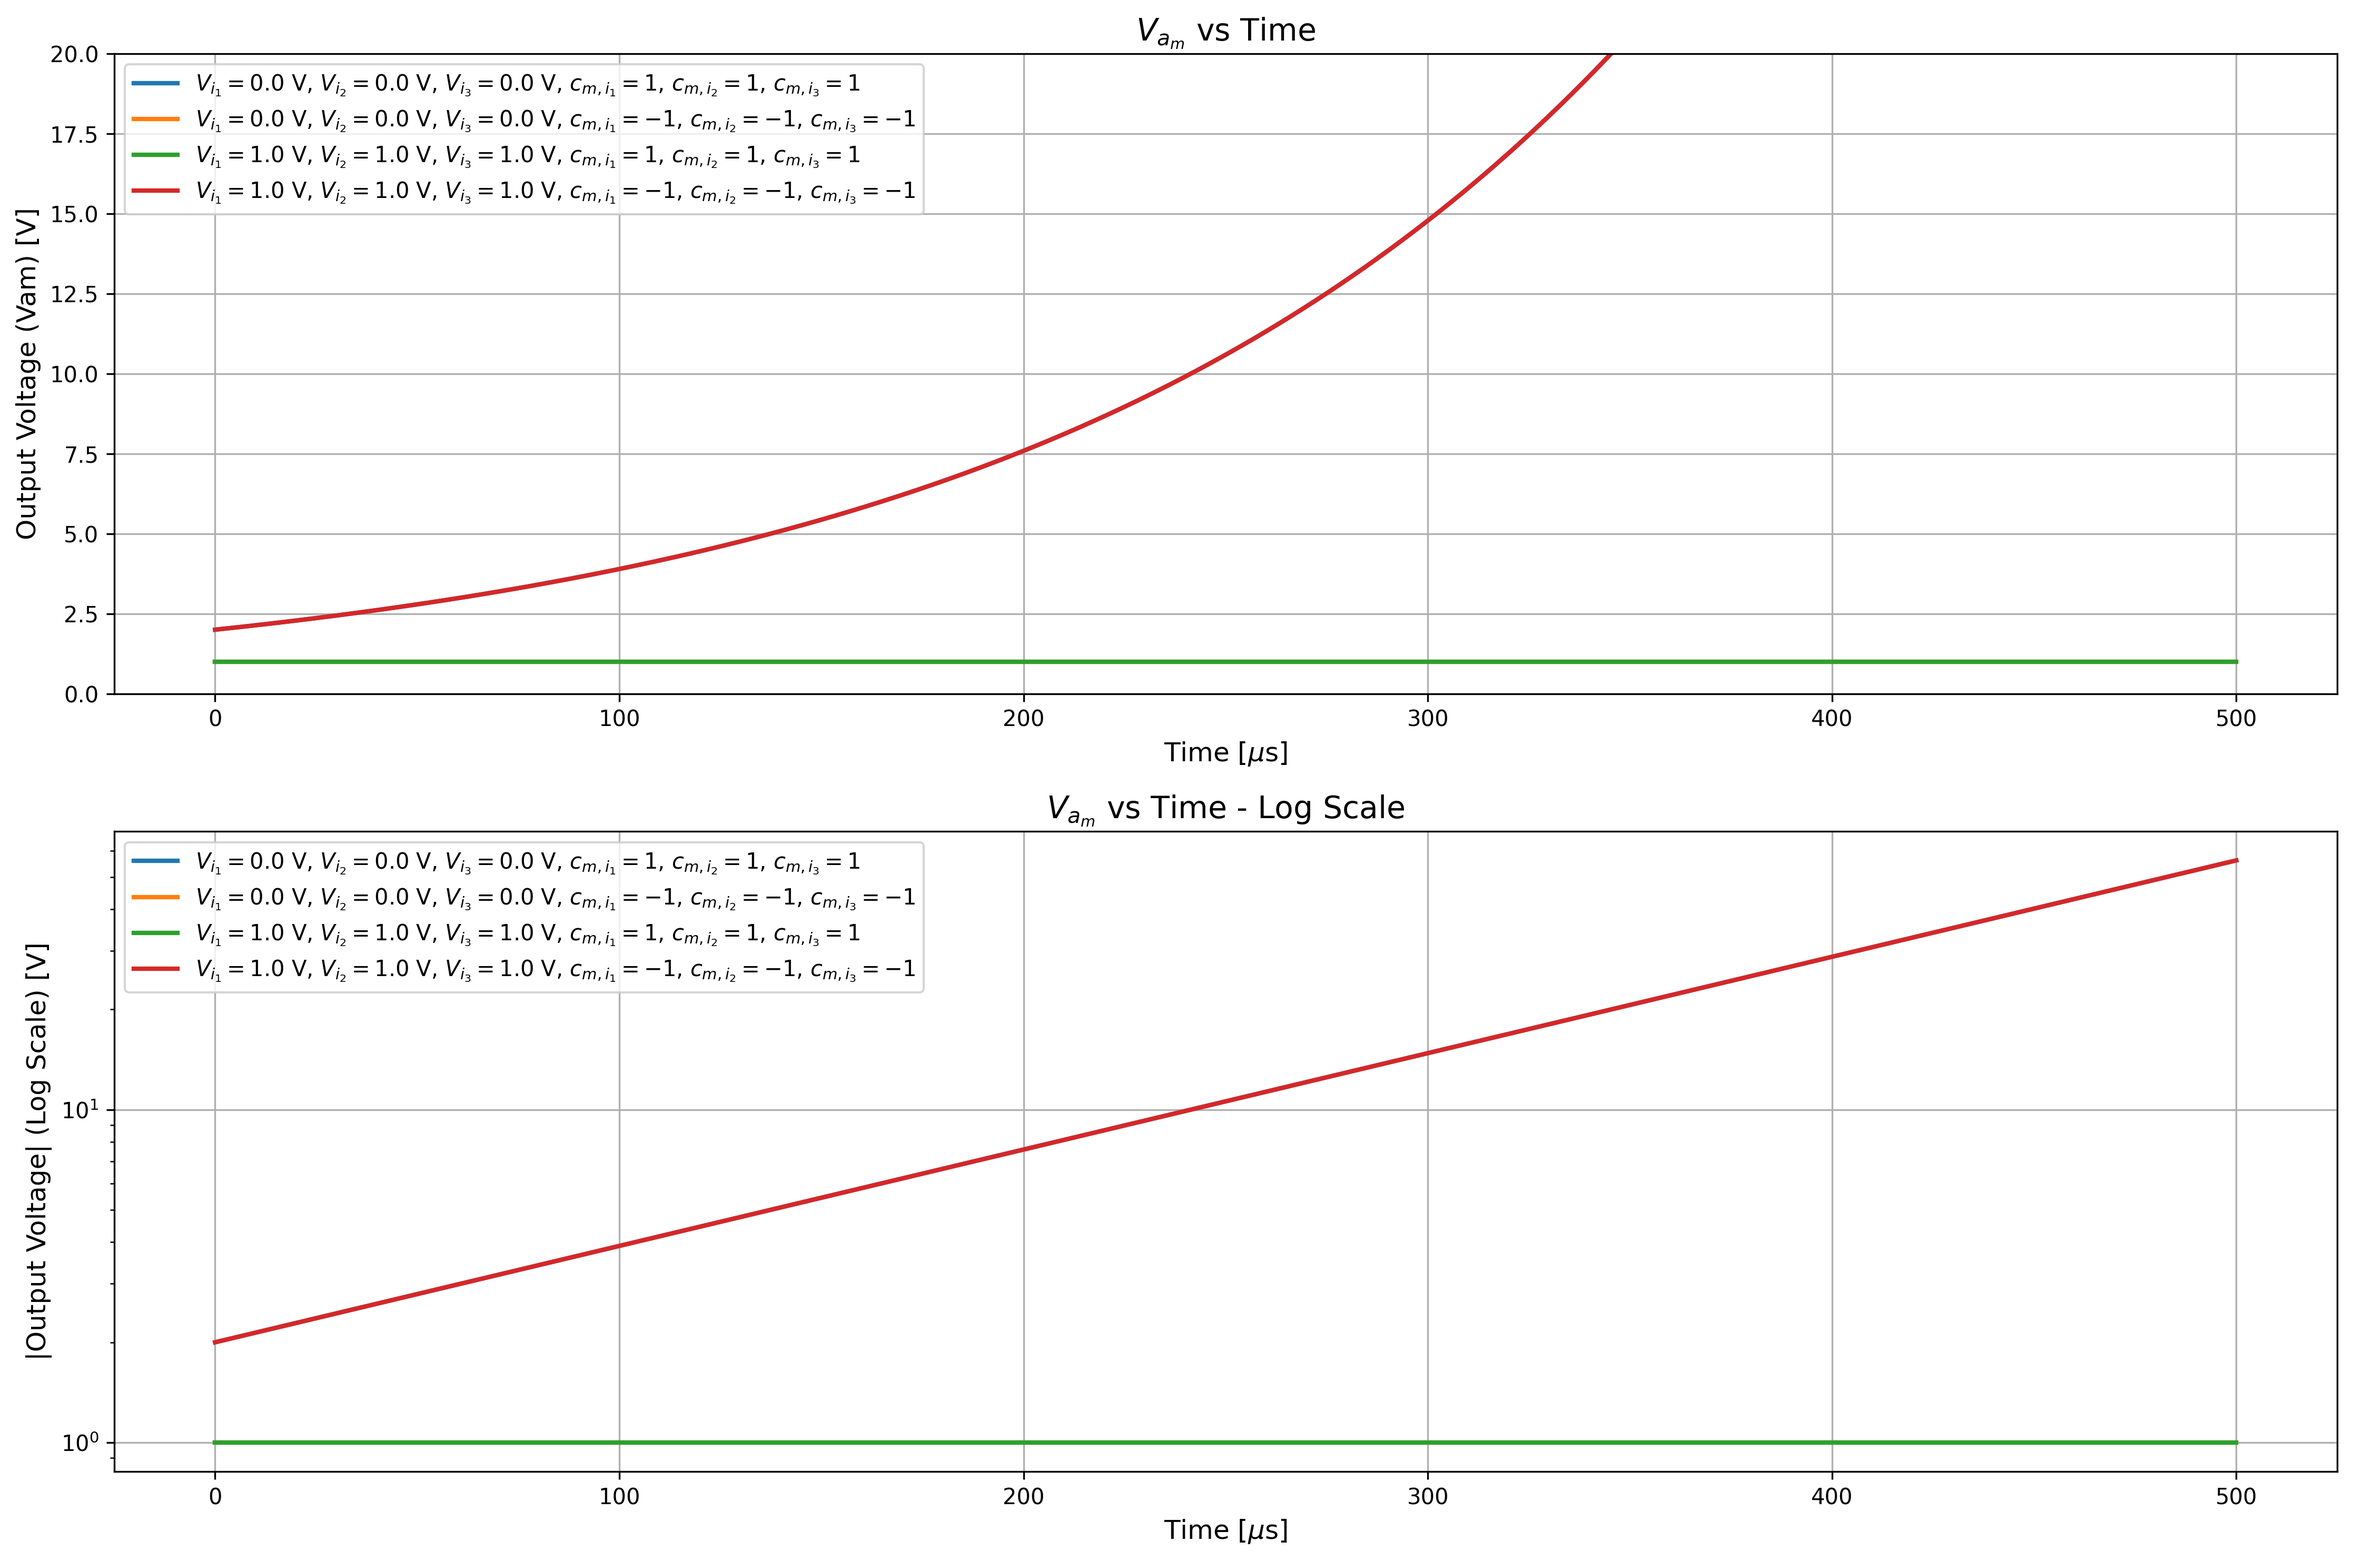
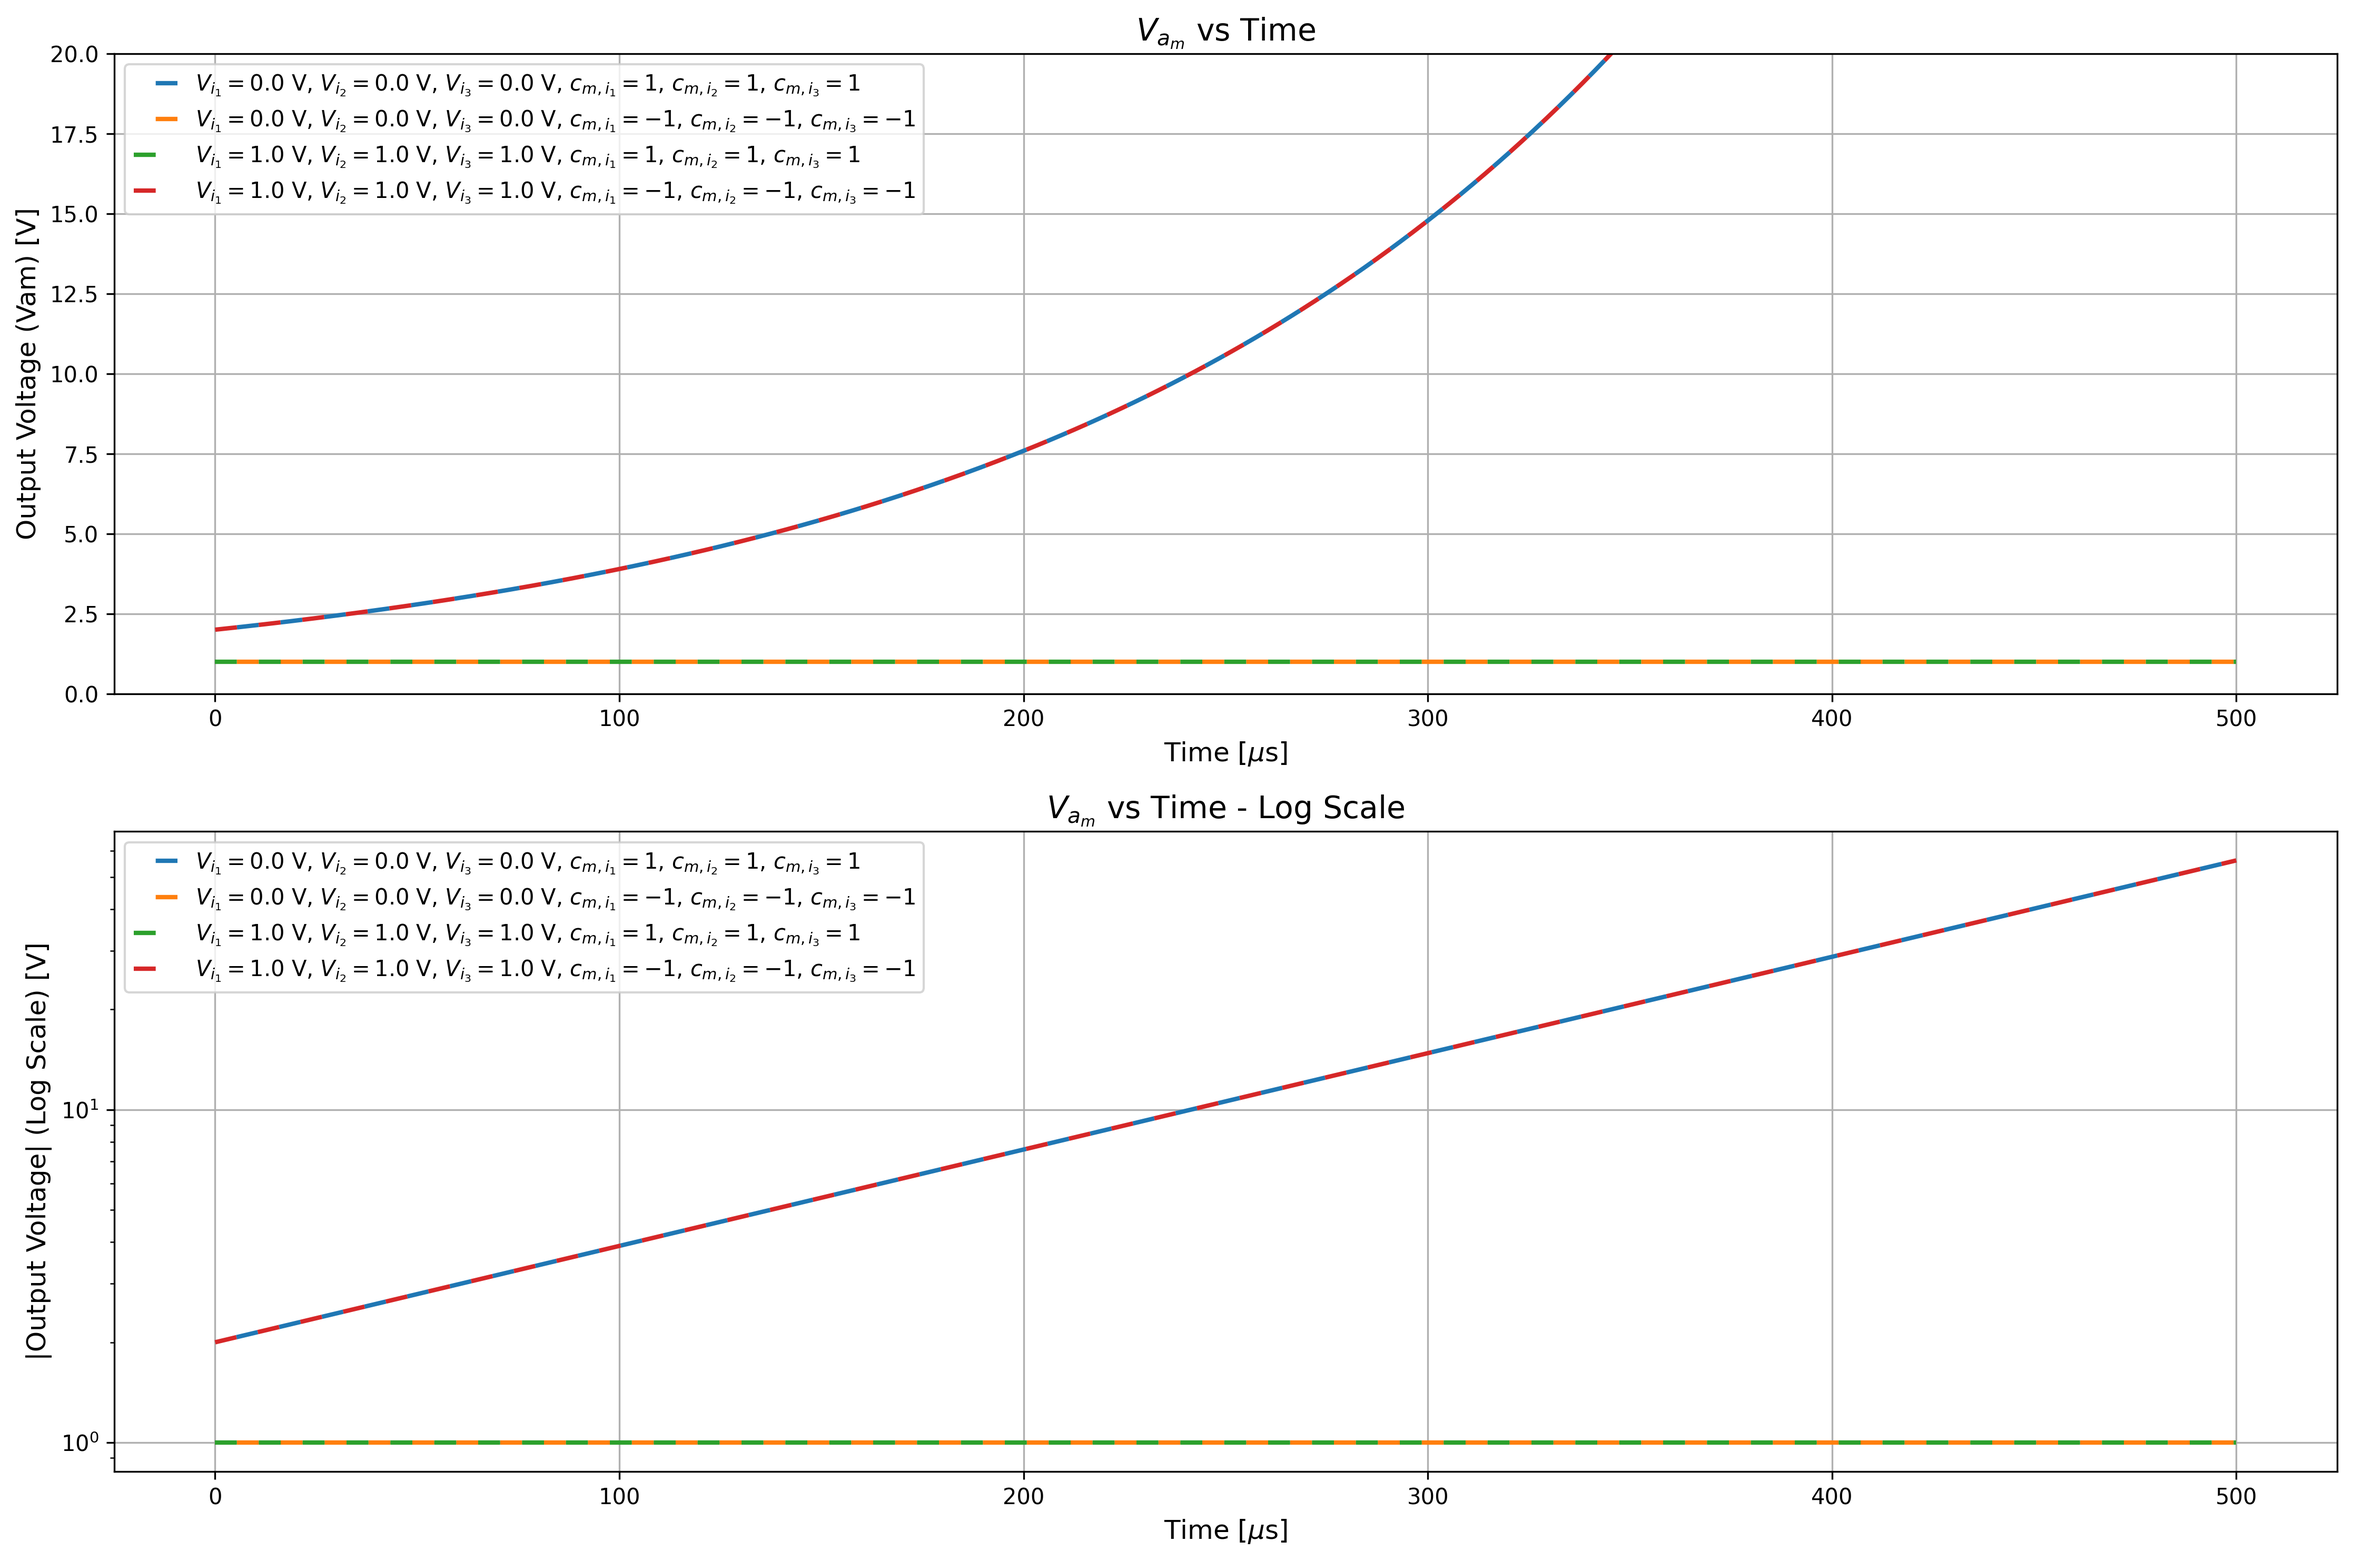
Better am new plot

diff --git a/src/am_new.py b/src/am_new.py
@@ -119,7 +119,8 @@ def simulate_am_circuit():
         {'vi1': 1.0, 'vi2': 1.0, 'vi3': 1.0, 'cm1': -1, 'cm2': -1, 'cm3': -1},
     ]
     
-    for case in cases:
+    ls=[(5,(5, 5)), (5,(5, 5)),(0,(5, 5)),(0,(5, 5))]
+    for i, case in enumerate(cases):
         vi1 = case['vi1']
         vi2 = case['vi2']
         vi3 = case['vi3']
@@ -212,10 +213,10 @@ def simulate_am_circuit():
     
         # Plot on the combined figures
         label = f'$V_{{i_1}}={vi1}$ V, $V_{{i_2}}={vi2}$ V, $V_{{i_3}}={vi3}$ V, $c_{{m,i_1}}={cm1}$, $c_{{m,i_2}}={cm2}$, $c_{{m,i_3}}={cm3}$'
-        plotted = ax1.plot(time * 1000000, vam, linestyle='-', linewidth=2, label=label)  # noqa: F841
+        plotted = ax1.plot(time * 1000000, vam, linestyle=ls[i], linewidth=2, label=label)  # noqa: F841
         # color = plotted[0].get_color()
         # ax1.plot(time * 1000000, vam_theory, linestyle='--', linewidth=2, label=f'Theoretical vi1={vi1}, vi2={vi2}, vi3={vi3}, cm1={cm1}, cm2={cm2}, cm3={cm3}', color=color)
-        ax2.semilogy(time * 1000000, np.abs(vam), linewidth=2, label=label)
+        ax2.semilogy(time * 1000000, np.abs(vam), linestyle=ls[i], linewidth=2, label=label)
     
     # Format the first figure (linear and log plots)
     ax1.set_xlabel('Time [$\mu$s]', fontsize=12)
